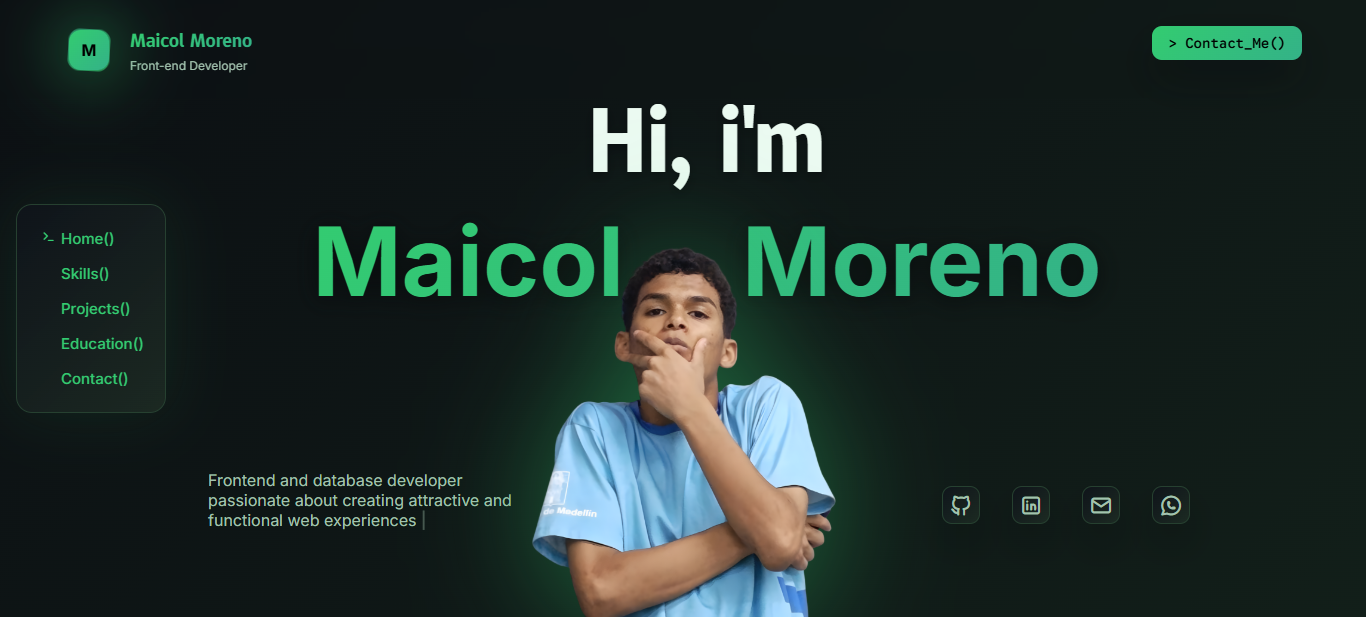
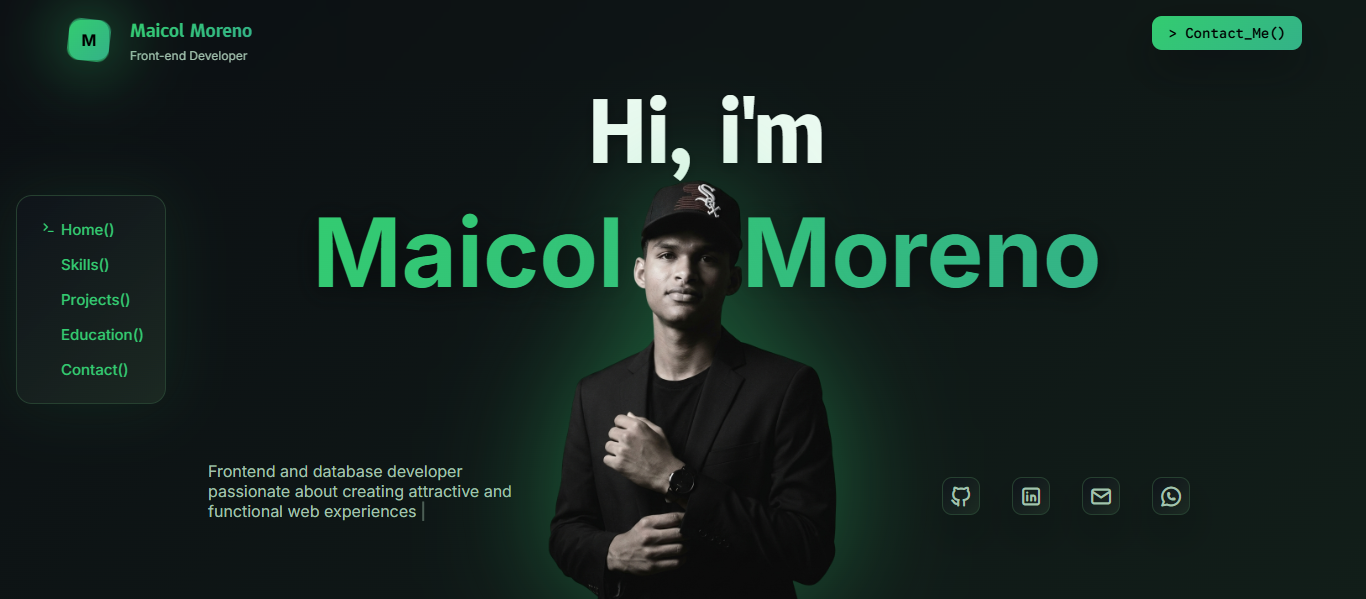
Refactorizar: Cambiar el size y contenido de la imagen principal y por consiguiente, cambiar la imagen de la capt del protfolio para la seccion de proyectos realizados

diff --git a/index.html b/index.html
@@ -65,14 +65,14 @@
                 </h1>
                 <div class="presentationInfo">
                     <p class="leftInfo writerMachine"></p>
-                    <!-- <img
+                    <img
                         data-aos="fade-up"
                         data-aos-easing="ease-in-out"
                         data-aos-duration="2000"
-                        src="./src/assets/images/personImage.png"
-                        alt="Naileth Salazar - Selfie"
+                        src="./src/assets/images/Maicol Moreno - Photo.png"
+                        alt="Maicol Moreno - Photo"
                         class="presentationImage"
-                    /> -->
+                    />
                     <div class="rightInfo">
                         <a
                             data-aos-duration="2000"
@@ -437,7 +437,7 @@
                                 <img
                                     class="projectImage"
                                     src="./src/assets/images/Maicol Moreno - Portfolio.png"
-                                    alt="Naileth Salazar - Portfolio"
+                                    alt="Maicol Moreno - Portfolio"
                                 />
                                 <div class="projectDetails">
                                     <div class="projectTitle">

diff --git a/src/styles/styles.css b/src/styles/styles.css
@@ -349,7 +349,7 @@ section {
 
 .presentationImage {
     width: 100%;
-    max-width: 320px;
+    max-width: 430px;
     height: auto;
     position: absolute;
     bottom: 0;
